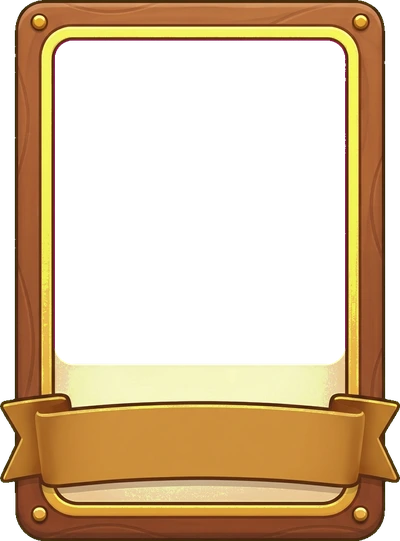
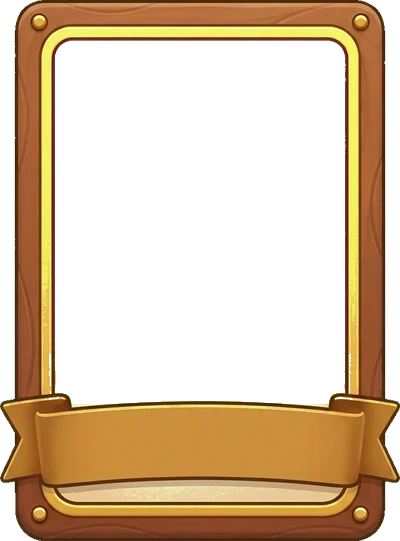
Thẻ phát triển: ảnh phủ kín ô tranh, bỏ dải kem thừa phía dưới
Claude-Session: https://claude.ai/code/session_01C6iMuiryePgrs9m7ahj8VB

Changed region(s): [[0.12, 0.6506, 0.9, 0.7689]]

diff --git a/games/dao-khai-hoang/art.js b/games/dao-khai-hoang/art.js
@@ -95,19 +95,19 @@ const KHART=(()=>{
     [[ax,ay],[bx,by]].forEach(([x,y])=>{ const L=Math.hypot(px-x,py-y), ux=(px-x)/L, uy=(py-y)/L; const nx=-uy*3.2, ny=ux*3.2;
       o+=`<polygon points="${f(x+nx)},${f(y+ny)} ${f(px+nx*.6)},${f(py+ny*.6)} ${f(px-nx*.6)},${f(py-ny*.6)} ${f(x-nx)},${f(y-ny)}" fill="#d9b27a" stroke="#8a5a2c" stroke-width="1.4"/>`;
       for(let k=1;k<6;k++){ const q=k/6; o+=`<line x1="${f(x+(px-x)*q+nx)}" y1="${f(y+(py-y)*q+ny)}" x2="${f(x+(px-x)*q-nx)}" y2="${f(y+(py-y)*q-ny)}" stroke="#8a5a2c" stroke-width="1"/>`; } });
-    o+=`<g transform="translate(${f(px)},${f(py)}) scale(1.25)"><path d="M-25 10 q6 -4 12 0 t12 0 t12 0 t12 0 t12 0" stroke="#fff" stroke-width="2.4" fill="none" opacity=".9"/><path d="M-20 14 q5 -3 10 0 t10 0 t10 0 t10 0" stroke="#bff3fb" stroke-width="1.6" fill="none" opacity=".8"/><g class="boat"><image href="assets/boat.webp?v=20261128zi" x="-20" y="-36.8" width="40" height="47.7" preserveAspectRatio="none"/></g></g>`;
+    o+=`<g transform="translate(${f(px)},${f(py)}) scale(1.25)"><path d="M-25 10 q6 -4 12 0 t12 0 t12 0 t12 0 t12 0" stroke="#fff" stroke-width="2.4" fill="none" opacity=".9"/><path d="M-20 14 q5 -3 10 0 t10 0 t10 0 t10 0" stroke="#bff3fb" stroke-width="1.6" fill="none" opacity=".8"/><g class="boat"><image href="assets/boat.webp?v=20261128zl" x="-20" y="-36.8" width="40" height="47.7" preserveAspectRatio="none"/></g></g>`;
     const bx2=px+Math.cos(ang)*42, by2=py+Math.sin(ang)*42;
     o+=`<g transform="translate(${f(bx2)},${f(by2)})"><circle r="15.5" fill="#f7ebcd" stroke="#9a6b36" stroke-width="2.4"/><circle r="12.5" fill="none" stroke="#c9a26a" stroke-width=".9"/>${t>=0?resMini(t,0,-4,.75):''}<text y="${t>=0?9:5}" class="pt">${t<0?'3:1':'2:1'}</text></g>`;
     return o; }
   // ---------- quân cờ ----------
   function shade(c,v){ return v>0?mix(c,'#ffffff',v):mix(c,'#000000',-v); }
   const HSPR={'#e11d48':'red','#2563eb':'blue','#16a34a':'green','#f8fafc':'white'};
-  function house(x,y,c,city,z){ z=z||1.28; const n=HSPR[c]||'red', u=`assets/house-${n}.webp?v=20261128zi`;
-    if(city){ const cu=`assets/city-${n}.webp?v=20261128zi`; return `<g transform="translate(${f(x)},${f(y)}) scale(${z})"><ellipse cx="0" cy="12" rx="19" ry="5.5" fill="#6b4423" opacity=".38"/><image href="${cu}" x="-19" y="-24" width="38" height="38" preserveAspectRatio="none"/></g>`; }
+  function house(x,y,c,city,z){ z=z||1.28; const n=HSPR[c]||'red', u=`assets/house-${n}.webp?v=20261128zl`;
+    if(city){ const cu=`assets/city-${n}.webp?v=20261128zl`; return `<g transform="translate(${f(x)},${f(y)}) scale(${z})"><ellipse cx="0" cy="12" rx="19" ry="5.5" fill="#6b4423" opacity=".38"/><image href="${cu}" x="-19" y="-24" width="38" height="38" preserveAspectRatio="none"/></g>`; }
     return `<g transform="translate(${f(x)},${f(y)}) scale(${z})"><ellipse cx="0" cy="10" rx="12" ry="3.6" fill="#6b4423" opacity=".35"/><image href="${u}" x="-12" y="-15.4" width="24" height="25.4" preserveAspectRatio="none"/></g>`; }
   function road(ax,ay,bx,by,c){ const n=HSPR[c]||'red', mx=(ax+bx)/2, my=(ay+by)/2; let ang=Math.atan2(by-ay,bx-ax)*180/Math.PI; if(ang>90) ang-=180; if(ang<-90) ang+=180;
     const L=Math.hypot(bx-ax,by-ay), w=Math.min(L-18,40), h=w*170/360;
-    return `<g transform="translate(${f(mx)},${f(my)}) rotate(${f(ang)})"><rect x="${f(-w/2+3)}" y="${f(-h/2+4)}" width="${f(w-6)}" height="${f(h-4)}" rx="4" fill="#6b4423" opacity=".35"/><image href="assets/road-${n}.webp?v=20261128zi" x="${f(-w/2)}" y="${f(-h/2-1)}" width="${f(w)}" height="${f(h)}" preserveAspectRatio="none"/></g>`; }
+    return `<g transform="translate(${f(mx)},${f(my)}) rotate(${f(ang)})"><rect x="${f(-w/2+3)}" y="${f(-h/2+4)}" width="${f(w-6)}" height="${f(h-4)}" rx="4" fill="#6b4423" opacity=".35"/><image href="assets/road-${n}.webp?v=20261128zl" x="${f(-w/2)}" y="${f(-h/2-1)}" width="${f(w)}" height="${f(h)}" preserveAspectRatio="none"/></g>`; }
   function robber(x,y){ return `<g transform="translate(${f(x)},${f(y)})" class="robber"><ellipse cx="2" cy="15" rx="11" ry="4" fill="#000" opacity=".45"/><path d="M-9,14 Q-11,6 -5,0 Q-8,-4 -6,-8 A7,7 0 1 1 6,-8 Q8,-4 5,0 Q11,6 9,14Z" fill="url(#khRob)" stroke="#000" stroke-width="1.2"/><ellipse cx="-3" cy="-10" rx="2.6" ry="3.6" fill="#fff" opacity=".35"/><ellipse cx="-5" cy="6" rx="2" ry="5" fill="#fff" opacity=".18"/><rect x="-9" y="12" width="18" height="3" rx="1.5" fill="#111"/></g>`; }
   function token(x,y,n){ const hot=n===6||n===8, k=KH.PIPS[n]||0;
     return `<g class="tok"><ellipse cx="${f(x+2)}" cy="${f(y+5)}" rx="17" ry="7" fill="#000" opacity=".35"/><circle cx="${f(x)}" cy="${f(y+2.5)}" r="16.5" fill="#8a6636"/><circle cx="${f(x)}" cy="${f(y)}" r="16" fill="url(#khToken)" stroke="#8a6636" stroke-width="2.2"/><circle cx="${f(x)}" cy="${f(y)}" r="13" fill="none" stroke="#fff" stroke-opacity=".7" stroke-width=".9"/>
@@ -115,9 +115,9 @@ const KHART=(()=>{
   // ---------- toàn bàn cờ tĩnh ----------
   function board(S,box){ const H=KH.HEX, V=KH.V, E=KH.E; const {minX,minY,w,h}=box;
     let s=`<defs>${defs()}${H.map((hx,i)=>`<clipPath id="khc${i}"><polygon points="${hexPts(hx.x*R,hx.y*R,R)}"/></clipPath>`).join('')}<clipPath id="khIsl"><polygon points="${island()}"/></clipPath></defs>`;
-    s+=`<rect x="${minX-500}" y="${minY-200}" width="${w+1000}" height="${h+400}" fill="#22b9e6"/><image href="assets/sea.webp?v=20261128zi" x="${minX-500}" y="${minY-200}" width="${w+1000}" height="${h+400}" preserveAspectRatio="xMidYMid slice"/>`;
+    s+=`<rect x="${minX-500}" y="${minY-200}" width="${w+1000}" height="${h+400}" fill="#22b9e6"/><image href="assets/sea.webp?v=20261128zl" x="${minX-500}" y="${minY-200}" width="${w+1000}" height="${h+400}" preserveAspectRatio="xMidYMid slice"/>`;
     { const Ri=4.3*R, kh=Ri/496.5, kv=.866*Ri/407.5, W=1254*kh, Hh=1254*kv; // đảo nền: lót cát + vành bãi cát vẽ sẵn
-      s+=`<polygon points="${island(4.35/4.85)}" fill="#e9bf7c"/><image href="assets/island-ring.webp?v=20261128zi" x="${f(-626.5*kh)}" y="${f(-615.5*kv)}" width="${f(W)}" height="${f(Hh)}" preserveAspectRatio="none"/>`; }
+      s+=`<polygon points="${island(4.35/4.85)}" fill="#e9bf7c"/><image href="assets/island-ring.webp?v=20261128zl" x="${f(-626.5*kh)}" y="${f(-615.5*kv)}" width="${f(W)}" height="${f(Hh)}" preserveAspectRatio="none"/>`; }
     s+=`<polygon points="${island(4.35/4.85)}" fill="#e9bf7c" opacity="0" clip-path="url(#khIsl)"/>`;
     const leaf=(x,y,r,c)=>`<circle cx="${f(x)}" cy="${f(y)}" r="${f(r)}" fill="${c}" stroke="#1f4a14" stroke-width="2.2"/><circle cx="${f(x-r*.3)}" cy="${f(y-r*.3)}" r="${f(r*.45)}" fill="#b6e66a" opacity=".55"/>`;
     const fol=(x,y,sg)=>`<g>`+`<path d="M${f(x)} ${f(y+70)} q${f(sg*-30)} ${f(-40)} ${f(sg*-90)} ${f(-70)}" stroke="#5a3a1c" stroke-width="12" fill="none" stroke-linecap="round"/><path d="M${f(x)} ${f(y+70)} q${f(sg*-30)} ${f(-40)} ${f(sg*-90)} ${f(-70)}" stroke="#8a5a2c" stroke-width="5" fill="none" stroke-linecap="round" opacity=".7"/>`+[[-20,28,26,'#4fa83a'],[-58,6,24,'#5fba44'],[-30,-6,22,'#3f9632'],[-78,34,20,'#4fa83a'],[4,-4,20,'#5fba44'],[-46,50,18,'#3f9632']].map(([dx,dy,r,c])=>leaf(x+sg*dx,y+dy,r,c)).join('')+`</g>`;
@@ -126,7 +126,7 @@ const KHART=(()=>{
     // ô đất (đế 3D + hình)
     H.forEach((hx,i)=>{ const cx=hx.x*R, cy=hx.y*R; s+=`<polygon points="${hexPts(cx,cy+6,R-1)}" fill="#d2b27a"/>${window.KH_LITE?'':`<polygon points="${hexPts(cx+2,cy+9,R)}" fill="#7a5a2a" opacity=".18" filter="url(#khSoft)"/>`}`; });
     H.forEach((hx,i)=>{ const cx=hx.x*R, cy=hx.y*R, hd=S.hex[i];
-      const HI=(window.KH_IMGS||{}).hex||[]; s+=`<g clip-path="url(#khc${i})">${HI.includes(hd.res)?`${hd.res<=5?`<image href="assets/hex-${hd.res}.webp?v=20261128zi" x="${f(cx-R*.9)}" y="${f(cy-R*1.04)}" width="${f(R*1.8)}" height="${f(R*2.08)}" preserveAspectRatio="none"/>`:`<image href="assets/hex-${hd.res}.webp?v=20261128zi" x="${f(cx-R*1.1)}" y="${f(cy-R*1.1)}" width="${f(R*2.2)}" height="${f(R*2.2)}" preserveAspectRatio="xMidYMid slice"/>`}`:terrain(hd.res,cx,cy,i)}${window.KH_LITE?'':`<rect x="${f(cx-R)}" y="${f(cy-R)}" width="${2*R}" height="${2*R}" filter="url(#khNoise)" opacity=".07"/>`}</g>`;
+      const HI=(window.KH_IMGS||{}).hex||[]; s+=`<g clip-path="url(#khc${i})">${HI.includes(hd.res)?`${hd.res<=5?`<image href="assets/hex-${hd.res}.webp?v=20261128zl" x="${f(cx-R*.9)}" y="${f(cy-R*1.04)}" width="${f(R*1.8)}" height="${f(R*2.08)}" preserveAspectRatio="none"/>`:`<image href="assets/hex-${hd.res}.webp?v=20261128zl" x="${f(cx-R*1.1)}" y="${f(cy-R*1.1)}" width="${f(R*2.2)}" height="${f(R*2.2)}" preserveAspectRatio="xMidYMid slice"/>`}`:terrain(hd.res,cx,cy,i)}${window.KH_LITE?'':`<rect x="${f(cx-R)}" y="${f(cy-R)}" width="${2*R}" height="${2*R}" filter="url(#khNoise)" opacity=".07"/>`}</g>`;
       s+=`<polygon points="${hexPts(cx,cy,R-1)}" fill="none" stroke="#d9bb82" stroke-width="3.4" stroke-linejoin="round"/><polygon points="${hexPts(cx,cy,R-4.5)}" fill="none" stroke="#b58b52" stroke-opacity=".45" stroke-width="1.3"/><polygon points="${hexPts(cx,cy,R)}" fill="none" stroke="#f3e2bb" stroke-width="1.6"/>`;
       });
     H.forEach((hx,i)=>{ const hd=S.hex[i]; if(hd.num) s+=token(hx.x*R,hx.y*R+8,hd.num); });
@@ -142,7 +142,7 @@ const KHART=(()=>{
   function resCard(r){ if(ccache['r'+r]) return ccache['r'+r]; const id='khrc'+r, nm=RN[r].toUpperCase();
     const s=`<svg viewBox="0 0 100 76" class="rcard"><defs>
       <linearGradient id="${id}w" x1="0" y1="0" x2="0" y2="1"><stop offset="0" stop-color="#c98a52"/><stop offset=".45" stop-color="#a8642f"/><stop offset="1" stop-color="#7d4520"/></linearGradient></defs>
-      <image href="assets/res-${r}.webp?v=20261128zi" x="1" y="10" width="98" height="65" preserveAspectRatio="none"/>
+      <image href="assets/res-${r}.webp?v=20261128zl" x="1" y="10" width="98" height="65" preserveAspectRatio="none"/>
       <g class="plank" transform="scale(1,.88)"><path d="M13 3.5 L16 1.5 H84 L87 3.5 L89 5.5 V17.5 L87 19.5 L84 21.5 H16 L13 19.5 L11 17.5 V5.5Z" fill="#1b0f06" transform="translate(0,1.2)" opacity=".55"/>
       <path d="M13 3 L16 1 H84 L87 3 L89 5 V17 L87 19 L84 21 H16 L13 19 L11 17 V5Z" fill="url(#${id}w)" stroke="#1b0f06" stroke-width="1.6" stroke-linejoin="round"/>
       <path d="M15 5 H55 M60 4.6 H84 M16 11 H40 M47 10.6 H70 M74 11 H86 M15 17.6 H48 M56 17.4 H84" stroke="#6b3a17" stroke-width=".7" stroke-linecap="round" fill="none" opacity=".7"/>
@@ -159,7 +159,7 @@ const KHART=(()=>{
   const sBush=(x,y,s,c='#3ea64a')=>`<g transform="translate(${x} ${y}) scale(${s})"><circle cx="-2" cy="0" r="2.6" fill="${c}" stroke="#14602a" stroke-width=".5"/><circle cx="1.6" cy="-.4" r="3" fill="${c}" stroke="#14602a" stroke-width=".5"/></g>`;
   const sFlow=(x,y,c)=>`<circle cx="${x}" cy="${y}" r=".9" fill="${c}"/><circle cx="${x}" cy="${y}" r=".35" fill="#fff6a8"/>`;
   function scene(k){
-    const u=`${k}`; const W='x="7" y="5" width="56" height="62"';
+    const u=`${k}`; const W='x="7" y="5" width="56" height="68"';
     if(k==='road') return `<defs><linearGradient id="sk${u}" x1="0" y1="0" x2="0" y2="1"><stop offset="0" stop-color="#6fc4fa"/><stop offset=".6" stop-color="#d8f1ff"/><stop offset="1" stop-color="#f2fbff"/></linearGradient></defs><rect ${W} fill="url(#sk${u})"/><circle cx="52" cy="14" r="9" fill="#fff7c4" opacity=".55"/><circle cx="52" cy="14" r="4.2" fill="#fff3a0"/>${sCloud(18,13,.9)}${sCloud(40,9,.7)}<path d="M7 40 L17 26 L25 36 L35 22 L47 37 L56 28 L63 36 V52 H7Z" fill="#9cc2e0" opacity=".85"/><path d="M7 46 Q22 37 36 43 T63 41 V68 H7Z" fill="#79c647"/>${[[11,43,.55],[16,41.5,.6],[21,43,.5],[48,41,.55],[54,43,.6],[59,41.5,.5]].map(t=>sTree(...t)).join('')}${[[10,52,.8],[15.5,50.5,.7],[57,51,.8],[61,53,.9]].map(t=>sPine(...t)).join('')}<path d="M7 54 Q24 47 40 53 T63 51 V68 H7Z" fill="#62b73a"/>${sTree(9.5,60,1.15)}${sTree(15,62.5,.9,'#6ad46a')}${sTree(60.5,60,1.15)}${sTree(55,63,.85,'#6ad46a')}${sBush(24,63,.9)}${sBush(46,63.5,.8)}${sFlow(20,64,'#ff6b9a')}${sFlow(30,65,'#ffd23f')}${sFlow(50,65,'#ff6b6b')}${sFlow(40,64.5,'#fff')}`;
     if(k==='knight') return `<defs><linearGradient id="sk${u}" x1="0" y1="0" x2="0" y2="1"><stop offset="0" stop-color="#7cc8fb"/><stop offset="1" stop-color="#e6f6ff"/></linearGradient></defs><rect ${W} fill="url(#sk${u})"/><circle cx="35" cy="34" r="22" fill="#fff" opacity=".4"/>${sCloud(50,12,.8)}${sCloud(16,17,.7)}<g stroke="#5d6f86" stroke-width=".6" stroke-linejoin="round"><rect x="9" y="28" width="8" height="22" fill="#9fb0c6"/><path d="M9 28 h1.8 v-2 h1.8 v2 h1.8 v-2 h1.8 v2 H17" fill="#9fb0c6"/><path d="M9 28 L13 21 L17 28Z" fill="#c4412f"/><rect x="47" y="24" width="9" height="26" fill="#a9b9ce"/><path d="M47 24 L51.5 16 L56 24Z" fill="#c4412f"/><rect x="17" y="35" width="30" height="15" fill="#b4c3d6"/><path d="M17 35 h2.5 v-2.4 h2.5 v2.4 h2.5 v-2.4 h2.5 v2.4 h2.5 v-2.4 h2.5 v2.4 h2.5 v-2.4 h2.5 v2.4 H47" fill="#b4c3d6"/><path d="M13 21 V16.5 M51.5 16 V11" stroke="#5a3a1a"/><path d="M13 16.5 l5 1.6 l-5 1.6Z M51.5 11 l5 1.6 l-5 1.6Z" fill="#ffcf3a" stroke="#8a5a10" stroke-width=".4"/><path d="M29 50 v-7 a3 3 0 0 1 6 0 v7Z" fill="#5a3a22"/></g><path d="M7 50 Q22 43 36 49 T63 47 V68 H7Z" fill="#79c647"/>${[[10,54,.9],[15,52.5,.7],[57,53,.9],[61.5,55,.8]].map(t=>sPine(...t)).join('')}<path d="M7 57 Q24 51 40 57 T63 55 V68 H7Z" fill="#62b73a"/>${sTree(60,61,1.1)}${sTree(10,61.5,1.05)}${sBush(20,63.5,.8)}${sBush(50,64,.8)}${sFlow(16,65,'#ff6b9a')}${sFlow(54,65,'#ffd23f')}`;
     if(k==='plenty') return `<defs><linearGradient id="sk${u}" x1="0" y1="0" x2="0" y2="1"><stop offset="0" stop-color="#ffe08a"/><stop offset="1" stop-color="#fff7d9"/></linearGradient></defs><rect ${W} fill="url(#sk${u})"/><circle cx="50" cy="17" r="10" fill="#ffd54a" opacity=".5"/><circle cx="50" cy="17" r="5" fill="#ffc933"/>${sCloud(18,13,.8)}<path d="M7 40 Q22 33 36 39 T63 37 V68 H7Z" fill="#9ad65a"/><g transform="translate(15 41)"><rect x="-6" y="-8" width="12" height="9" fill="#c4412f" stroke="#7a1f10" stroke-width=".6"/><path d="M-7.5 -8 L0 -14 L7.5 -8Z" fill="#8a2c1c" stroke="#5a1410" stroke-width=".6"/><rect x="-1.6" y="-4.5" width="3.2" height="5.5" fill="#f6e3b0"/></g>${sTree(55,43,.8)}${sTree(60,44,.65)}<path d="M7 47 Q24 41 40 46 T63 44 V68 H7Z" fill="#f0c43c"/>${[0,1,2,3,4,5].map(i=>`<path d="M${7+i*0.2} ${50+i*3.2} Q${28} ${44+i*3.2} ${40} ${49+i*3.2} T63 ${47+i*3.2}" fill="none" stroke="${i%2?'#d9a424':'#fbd85a'}" stroke-width="1.4"/>`).join('')}${sBush(11,64,.8,'#6fbf4a')}${sBush(58,64.5,.8,'#6fbf4a')}`;
@@ -182,14 +182,14 @@ const KHART=(()=>{
       const isA=k[0]==='a'&&k.length===5;
       let body;
       if(k==='knight'){
-        body=scene(k)+`<ellipse cx="35" cy="60.8" rx="14" ry="2.6" fill="#000" opacity=".25"/><image href="assets/knight-art.webp" x="${35-18.3}" y="8" width="36.6" height="54.2" preserveAspectRatio="xMidYMid meet"/>`;
+        body=`<g transform="translate(0 5) scale(1 1.0968) translate(0 -5)">`+scene(k)+`</g><ellipse cx="35" cy="60.8" rx="14" ry="2.6" fill="#000" opacity=".25"/><image href="assets/knight-art.webp" x="${35-18.3}" y="8" width="36.6" height="54.2" preserveAspectRatio="xMidYMid meet"/>`;
       } else if(k==='road'){
-        body=`<image href="assets/card-road-full.webp" x="7" y="5" width="56" height="62" preserveAspectRatio="xMidYMid slice"/>`;
+        body=`<image href="assets/card-road-full.webp" x="7" y="5" width="56" height="68" preserveAspectRatio="xMidYMid slice"/>`;
       } else if(k==='mono'||k==='plenty'){
         const IM={road:'x="12" y="12" width="46" height="46"',mono:'x="11" y="7" width="48" height="57.5"',plenty:'x="12" y="9.5" width="46" height="52"'}[k];
-        body=scene(k)+`<image href="assets/card-${k}.webp" ${IM} preserveAspectRatio="xMidYMid meet"/>`;
+        body=`<g transform="translate(0 5) scale(1 1.0968) translate(0 -5)">`+scene(k)+`</g><image href="assets/card-${k}.webp" ${IM} preserveAspectRatio="xMidYMid meet"/>`;
       } else if(k==='vp'){
-        body=scene(k)+`<ellipse cx="35" cy="60.5" rx="15" ry="2.6" fill="#000" opacity=".22"/><image href="assets/city-red.webp" x="14" y="19" width="42" height="42" preserveAspectRatio="xMidYMid meet"/><polygon points="${[0,1,2,3,4,5,6,7,8,9].map(q=>{const an=-Math.PI/2+q*Math.PI/5,rr=q%2?4.4:10.5;return (35+rr*Math.cos(an)).toFixed(1)+','+(17+rr*Math.sin(an)).toFixed(1);}).join(' ')}" fill="#f7c52b" stroke="#8a5a0c" stroke-width="1.3" stroke-linejoin="round"/><circle cx="55" cy="55" r="6.6" fill="#d83a3a" stroke="#4a0d0d" stroke-width="1.2"/><text x="55" y="58.4" text-anchor="middle" class="rn" style="font-size:8.5px">+1</text>`;
+        body=`<g transform="translate(0 5) scale(1 1.0968) translate(0 -5)">`+scene(k)+`</g><ellipse cx="35" cy="60.5" rx="15" ry="2.6" fill="#000" opacity=".22"/><image href="assets/city-red.webp" x="14" y="19" width="42" height="42" preserveAspectRatio="xMidYMid meet"/><polygon points="${[0,1,2,3,4,5,6,7,8,9].map(q=>{const an=-Math.PI/2+q*Math.PI/5,rr=q%2?4.4:10.5;return (35+rr*Math.cos(an)).toFixed(1)+','+(17+rr*Math.sin(an)).toFixed(1);}).join(' ')}" fill="#f7c52b" stroke="#8a5a0c" stroke-width="1.3" stroke-linejoin="round"/><circle cx="55" cy="55" r="6.6" fill="#d83a3a" stroke="#4a0d0d" stroke-width="1.2"/><text x="55" y="58.4" text-anchor="middle" class="rn" style="font-size:8.5px">+1</text>`;
       } else body=`<g transform="translate(5.65,6.2) scale(.84)">${a}</g>`;
       const sF=`<svg viewBox="0 0 70 94.7" class="rcard">${body}<image href="assets/card-frame.webp" x="0" y="0" width="70" height="94.7"/><text x="35" y="${(77.9+fs*.12).toFixed(1)}" class="rn" style="font-size:${fs}px">${nm}</text>${isA?`<circle cx="60" cy="12" r="8" fill="#f7c52b" stroke="#5a3a00" stroke-width="1.2"/><circle cx="60" cy="12" r="6" fill="none" stroke="#fff3a8" stroke-width=".8"/><text x="60" y="15.4" class="rn" style="font-size:9px">+2</text>`:''}</svg>`;
       return ccache[ck]=sF;
@@ -206,7 +206,7 @@ const KHART=(()=>{
     <text x="35" y="59" class="rn" style="font-size:22px;fill:#ffe9a8;stroke:#2e1809;stroke-width:3px;paint-order:stroke">?</text></svg>`; }
   function medal(k){ const road=k==='road', id='khmd'+k; return `<svg viewBox="0 0 64 64" class="mdl"><defs><linearGradient id="${id}g" x1="0" y1="0" x2="1" y2="1"><stop offset="0" stop-color="#fff0b0"/><stop offset=".5" stop-color="#e0a62c"/><stop offset="1" stop-color="#8a5a10"/></linearGradient><clipPath id="${id}c"><circle cx="32" cy="32" r="23"/></clipPath></defs>
     <circle cx="32" cy="33" r="30" fill="#000" opacity=".3"/><circle cx="32" cy="32" r="30" fill="url(#${id}g)" stroke="#4a2b08" stroke-width="2"/><circle cx="32" cy="32" r="24.5" fill="${road?'#c79a5a':'#6f86a8'}" stroke="#4a2b08" stroke-width="1.6"/>
-    ${road?`<g clip-path="url(#${id}c)"><rect x="8" y="8" width="48" height="48" fill="#8cc152"/><image href="assets/road-neutral.webp?v=20261128zi" x="9" y="22" width="46" height="21.7" preserveAspectRatio="none"/></g>`:`<g clip-path="url(#${id}c)"><image href="assets/dev-knight.webp?v=20261128zi" x="6" y="7" width="52" height="55.5" preserveAspectRatio="xMidYMid slice"/></g>`}
+    ${road?`<g clip-path="url(#${id}c)"><rect x="8" y="8" width="48" height="48" fill="#8cc152"/><image href="assets/road-neutral.webp?v=20261128zl" x="9" y="22" width="46" height="21.7" preserveAspectRatio="none"/></g>`:`<g clip-path="url(#${id}c)"><image href="assets/dev-knight.webp?v=20261128zl" x="6" y="7" width="52" height="55.5" preserveAspectRatio="xMidYMid slice"/></g>`}
     <circle cx="32" cy="32" r="24.5" fill="none" stroke="#4a2b08" stroke-width="1.6"/><g transform="translate(47,48)"><circle r="11.5" fill="#d92d2d" stroke="#4a0f0f" stroke-width="2"/><text y="5" class="rn" style="font-size:14px;fill:#fff;stroke:#4a0f0f;stroke-width:3px;paint-order:stroke">+2</text></g></svg>`; }
   return {R,board,house,road,robber,die,resCard,devCard,devBack,medal,resMini,hexPts,shade,RC};
 })();

diff --git a/games/dao-khai-hoang/ui.js b/games/dao-khai-hoang/ui.js
@@ -78,12 +78,12 @@ const KHUI=(()=>{
     let L=h, HV=''; h='';
     h+=`<div class="pls">${S.seats.map((p,i)=>{ const Q=S.P[i]; const left=S.turn===i&&S.phase!=='over'?Math.max(0,90-Math.floor((t-S.turnAt)/1000)):null;
       return `<div class="pl ${S.turn===i?'turn':''} ${S.winner===i?'win':''}" data-p="${i}" style="--pc:${PC[i]}"><div class="ph"><svg viewBox="-12 -16 24 28" class="pk">${A.house(0,0,PC[i],false,1)}</svg><b>${api.esc(p.name)}</b>${i===ME?' (bạn)':''}<span class="meds">${S.longest===i?`<span class="medal lr" title="Đường dài nhất +2 điểm">${A.medal('road')}</span>`:''}${S.largest===i?`<span class="medal la" title="Quân mạnh nhất +2 điểm">${A.medal('army')}</span>`:''}</span>${left!=null?` <span class="tmr">${left}</span>`:''}<span class="vp">${KH.vp(S,i,i===ME||S.phase==='over')}<small>điểm</small></span></div>
-        <div class="pcn"><span title="Nhà"><img src="assets/house-neutral.webp?v=20261128zi">${5-Q.towns}</span><span title="Thành phố"><img src="assets/city-neutral.webp?v=20261128zi">${4-Q.cities}</span><span title="Đường"><img src="assets/road-neutral.webp?v=20261128zi" class="rd">${15-Q.roads}</span></div>
+        <div class="pcn"><span title="Nhà"><img src="assets/house-neutral.webp?v=20261128zl">${5-Q.towns}</span><span title="Thành phố"><img src="assets/city-neutral.webp?v=20261128zl">${4-Q.cities}</span><span title="Đường"><img src="assets/road-neutral.webp?v=20261128zl" class="rd">${15-Q.roads}</span></div>
         ${i!==ME&&ME>=0?`<button class="tbtn sm pto" data-a="offerto" data-p="${i}" ${main&&P&&P.res[og]>=oq&&og!==ow?'':'disabled'} title="Gửi: đưa ${oq} ${KH_RES[og]}, lấy ${on} ${KH_RES[ow]}">Yêu cầu đổi</button>`:''}
         <div class="ps"><span title="Tài nguyên"><i>Tài nguyên: </i><u>🎴</u><b class="rn2">${KH.tot(Q.res)}</b></span><span title="Thẻ phát triển"><i>Thẻ PT: </i><u>📜</u>${Q.dev.length+Q.newDev.length}</span><span title="Hiệp sĩ đã dùng"><i>Hiệp sĩ: </i><u>⚔</u>${Q.knights}</span></div>
         </div>`; }).join('')}</div>`;
     const S1=h; h='';
-    { const V='?v=20261128zi';
+    { const V='?v=20261128zl';
       const cc=c=>c.map((x,r)=>x?`<span class="cr">${[...Array(x)].map(()=>`<svg viewBox="-9 -8 18 16" width="21" height="19">${A.resMini(r,0,0,.8)}</svg>`).join('')}</span>`:'').join('');
       const row=(ic,t,pt,c,att,dis,on)=>`<button class="ctr cbtn ${on?'on':''}" ${att} ${dis?'disabled':''}><span class="cic">${ic}</span><span class="ctx"><b>${t}</b><small>${pt}</small></span><span class="cco">${cc(c)}</span></button>`;
       const okR=main&&P&&(KH.canPay(P,KH_COST.road)||S.free)&&P.roads>0, okT=main&&P&&KH.canPay(P,KH_COST.town)&&P.towns>0, okC=main&&P&&KH.canPay(P,KH_COST.city)&&P.cities>0, okD=main&&P&&KH.canPay(P,KH_COST.dev)&&S.dev.length>0;
@@ -111,7 +111,7 @@ const KHUI=(()=>{
         const popH=pop==='bank'?`<div class="box pop"><div class="cth">Đổi với cảng · ngân hàng</div><div class="plb">Đưa (số lá cần có)</div><div class="rrow">${gb}</div><div class="plb">Lấy</div><div class="rrow">${wb}</div><button class="tbtn pri wide" data-a="trade" ${okT?'':'disabled'}>Đổi ${rt[tg]} ${KH_RES[tg]} lấy 1 ${KH_RES[tw]}</button></div>`
           :pop==='offer'?`<div class="box pop ptr"><div class="cth">Yêu cầu đổi với người chơi</div><div class="prow"><span>Đưa</span><select data-s="oq">${qty(oq)}</select><select data-s="og">${opt(0,og,ow)}</select></div><div class="prow"><span>Lấy</span><select data-s="on">${qty(on)}</select><select data-s="ow">${opt(0,ow,og)}</select></div>
           <div class="prow"><span>Cho</span><select data-s="ot"><option value="-1" ${ot<0?'selected':''}>Tất cả</option>${others.map(i=>`<option value="${i}" ${ot===i?'selected':''}>${api.esc(S.seats[i].name)}</option>`).join('')}</select></div>${main?(P.res[og]>=oq?'':'<div class="chint">Bạn chưa đủ lá để đưa</div>'):'<div class="chint">Chỉ gửi được trong lượt của bạn, sau khi đổ xúc xắc</div>'}<button class="tbtn pri wide" data-a="offer" ${okO?'':'disabled'}>Gửi yêu cầu đổi</button></div>`:'';
-        HV+=`<div class="tbar">${popH}<button class="bt ${anyB?'ring':''} ${pop==='bank'?'on':''}" data-a="pop" data-k="bank" title="Đổi với cảng / ngân hàng"><img src="assets/boat.webp?v=20261128zi" alt=""><small>Đổi cảng</small></button><button class="bt bm ${pop==='offer'?'on':''}" data-a="pop" data-k="offer" title="Chợ: yêu cầu đổi với người chơi"><svg viewBox="0 0 50 50" width="46" height="46" class="mk"><rect x="9" y="19" width="3" height="22" rx="1" fill="#8a5a2c" stroke="#3a210c" stroke-width="1"/><rect x="38" y="19" width="3" height="22" rx="1" fill="#8a5a2c" stroke="#3a210c" stroke-width="1"/><g stroke="#3a210c" stroke-width="1.1" stroke-linejoin="round"><polygon points="10,9 16,9 13.6,20 6.0,20" fill="#e11d48"/><polygon points="16,9 22,9 21.2,20 13.6,20" fill="#fff4d6"/><polygon points="22,9 28,9 28.8,20 21.2,20" fill="#e11d48"/><polygon points="28,9 34,9 36.4,20 28.8,20" fill="#fff4d6"/><polygon points="34,9 40,9 44.0,20 36.4,20" fill="#e11d48"/><circle cx="9.8" cy="20" r="3.8" fill="#e11d48"/><circle cx="17.4" cy="20" r="3.8" fill="#fff4d6"/><circle cx="25.0" cy="20" r="3.8" fill="#e11d48"/><circle cx="32.6" cy="20" r="3.8" fill="#fff4d6"/><circle cx="40.2" cy="20" r="3.8" fill="#e11d48"/></g><rect x="7" y="33" width="36" height="9" rx="2" fill="#b8763a" stroke="#3a210c" stroke-width="1.2"/><rect x="7" y="33" width="36" height="3" rx="1.5" fill="#d99a58"/><circle cx="17" cy="31" r="3.6" fill="#ef4444" stroke="#3a210c" stroke-width="1"/><circle cx="25" cy="30.5" r="3.6" fill="#facc15" stroke="#3a210c" stroke-width="1"/><circle cx="33" cy="31" r="3.6" fill="#4ade80" stroke="#3a210c" stroke-width="1"/></svg><small>Chợ</small></button></div>`; }
+        HV+=`<div class="tbar">${popH}<button class="bt ${anyB?'ring':''} ${pop==='bank'?'on':''}" data-a="pop" data-k="bank" title="Đổi với cảng / ngân hàng"><img src="assets/boat.webp?v=20261128zl" alt=""><small>Đổi cảng</small></button><button class="bt bm ${pop==='offer'?'on':''}" data-a="pop" data-k="offer" title="Chợ: yêu cầu đổi với người chơi"><svg viewBox="0 0 50 50" width="46" height="46" class="mk"><rect x="9" y="19" width="3" height="22" rx="1" fill="#8a5a2c" stroke="#3a210c" stroke-width="1"/><rect x="38" y="19" width="3" height="22" rx="1" fill="#8a5a2c" stroke="#3a210c" stroke-width="1"/><g stroke="#3a210c" stroke-width="1.1" stroke-linejoin="round"><polygon points="10,9 16,9 13.6,20 6.0,20" fill="#e11d48"/><polygon points="16,9 22,9 21.2,20 13.6,20" fill="#fff4d6"/><polygon points="22,9 28,9 28.8,20 21.2,20" fill="#e11d48"/><polygon points="28,9 34,9 36.4,20 28.8,20" fill="#fff4d6"/><polygon points="34,9 40,9 44.0,20 36.4,20" fill="#e11d48"/><circle cx="9.8" cy="20" r="3.8" fill="#e11d48"/><circle cx="17.4" cy="20" r="3.8" fill="#fff4d6"/><circle cx="25.0" cy="20" r="3.8" fill="#e11d48"/><circle cx="32.6" cy="20" r="3.8" fill="#fff4d6"/><circle cx="40.2" cy="20" r="3.8" fill="#e11d48"/></g><rect x="7" y="33" width="36" height="9" rx="2" fill="#b8763a" stroke="#3a210c" stroke-width="1.2"/><rect x="7" y="33" width="36" height="3" rx="1.5" fill="#d99a58"/><circle cx="17" cy="31" r="3.6" fill="#ef4444" stroke="#3a210c" stroke-width="1"/><circle cx="25" cy="30.5" r="3.6" fill="#facc15" stroke="#3a210c" stroke-width="1"/><circle cx="33" cy="31" r="3.6" fill="#4ade80" stroke="#3a210c" stroke-width="1"/></svg><small>Chợ</small></button></div>`; }
       { const mx=Math.max(0,...S.P.map(q=>q.lr)), mk=Math.max(0,...S.P.map(q=>q.knights)); const hd=i=>i>=0?`<span class="hold" style="--pc:${PC[i]}">${api.esc(S.seats[i].name)}</span>`:'<span class="hold none">Chưa ai</span>';
         const slot=(k,cls,own)=>own<0?`<span class="medal ${cls}">${A.medal(k)}</span>`:`<span class="slot"></span>`;
         L+=`<div class="box awp"><div class="cth">Giải thưởng +2 điểm</div>

diff --git a/games/dao-khai-hoang/index.html b/games/dao-khai-hoang/index.html
@@ -13,8 +13,8 @@
 <script src="../../core/effects.js"></script>
 <script src="../../core/table.js"></script>
 <script src="../../core/cards.js"></script>
-<script src="game.js?v=20261128zi"></script>
-<script src="assets/imgs.js?v=20261128zi"></script>
+<script src="game.js?v=20261128zl"></script>
+<script src="assets/imgs.js?v=20261128zl"></script>
 <script>
 window.KH_FX=(function(){const d=document.documentElement;
  function mode(){let m=null;try{m=localStorage.getItem('kh-fx');}catch(e){} if(m==='full'||m==='lite') return m;
@@ -24,8 +24,8 @@ window.KH_FX=(function(){const d=document.documentElement;
  function toggle(){const n=mode()==='lite'?'full':'lite';try{localStorage.setItem('kh-fx',n);}catch(e){} return apply();}
  apply(); return {mode,apply,toggle};})();
 </script>
-<script src="art.js?v=20261128zi"></script>
-<script src="ui.js?v=20261128zi"></script>
+<script src="art.js?v=20261128zl"></script>
+<script src="ui.js?v=20261128zl"></script>
 <script>
 const CSS=`#kh{padding:8px 10px 14px;min-height:calc(100vh - 60px);background:radial-gradient(ellipse at 40% 30%,#6b4524 0%,#4a2d15 55%,#2c1a0b 100%);color:#f6ead0}
 #kh::before{content:"";position:fixed;inset:0;pointer-events:none;opacity:.18;background:repeating-linear-gradient(92deg,transparent 0 22px,rgba(0,0,0,.25) 22px 24px,transparent 24px 60px),repeating-linear-gradient(88deg,rgba(255,220,170,.06) 0 3px,transparent 3px 9px)}
